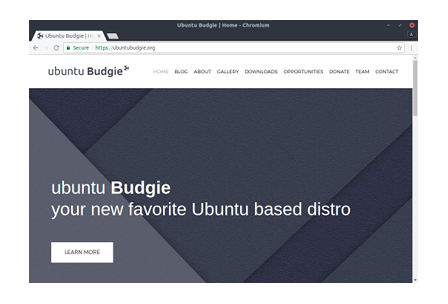
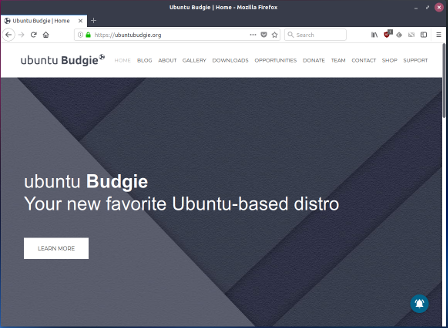
Ubuntu 18.10 wording and picture updates

diff --git a/slideshows/ubuntu-budgie/slides/02_desktop.html b/slideshows/ubuntu-budgie/slides/02_desktop.html
@@ -7,7 +7,8 @@
 			<strong>Budgie</strong> is built exclusively for desktop users. No mobile or tablet here!
 			<br /><br />
 			<li><strong>Budgie Menu</strong> provides quick access to your apps, offering both category and compact views</li><br />
-			<li><strong>Raven</strong> side panel lets you access applets,notifications and customization center all in one place</li><br />
+			<li><strong>Raven</strong> side panel lets you access notifications, play music and sound control all in one place</li><br />
+			<li><strong>Budgie Desktop Settings</strong> lets you further customize your desktop; panels, fonts, themes, icons and autostart apps</li><br />
 			<li><strong>Budgie</strong> gets out of your way and provides a clutter free desktop experience</li>
 	</div>
 

diff --git a/slideshows/ubuntu-budgie/slides/08_gethelp.html b/slideshows/ubuntu-budgie/slides/08_gethelp.html
@@ -6,7 +6,7 @@
     <div class="text">
         <div>
             Thanks for choosing and installing <strong>Ubuntu Budgie</strong>!<br/><br/>
-            <li>Get help and support on our Google+ community (plus.google.com/+UbuntuBudgie) or on <strong>Launchpad</strong>: <a href="https://launchpad.net/ubuntubudgie">launchpad.net/ubuntubudgie</a></li><br />
+            <li>Get help and support with our Discourse community: <a href="https://discourse.ubuntubudgie.org">discourse.ubuntubudgie.org</a></li><br />
             <li>For more information and pointers to other useful resources, please visit our homepage: <a href="https://ubuntubudgie.org">ubuntubudgie.org</a></li><br />
             Enjoy and have fun! 😃
         </div>

diff --git a/slideshows/ubuntu-budgie/slides/03_browse.html b/slideshows/ubuntu-budgie/slides/03_browse.html
@@ -5,7 +5,7 @@
 <div class="main">
 	<div class="text">
 		<div>
-			<p>With <strong>Chromium</strong> already installed, Ubuntu Budgie has everything you need to browse the web. Easy browsing, high performance, advanced security, powerful personalization and the cutting edge, all that is between your hands.</p>
+			<p>With <strong>Firefox</strong> already installed, Ubuntu Budgie has everything you need to browse the web. Easy browsing, high performance, advanced security, powerful personalization and the cutting edge, all that is in your hands.</p>
 		</div>
 
 		<div class="bigicon">
